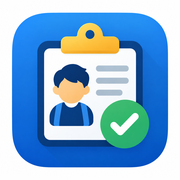
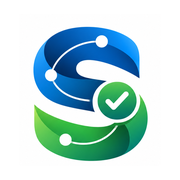
Versión 1.9

diff --git a/index.html b/index.html
@@ -6,7 +6,7 @@
   <meta name="theme-color" content="#1769e0" />
   <link rel="icon" type="image/png" sizes="32x32" href="favicon-32.png" />
   <link rel="apple-touch-icon" href="apple-touch-icon.png" />
-  <title>Registro de Ocurrencias Escolar</title>
+  <title>SAGE · Sistema de Acompañamiento y Gestión Escolar</title>
   <link rel="manifest" href="manifest.webmanifest" />
   <style>
     :root{--bg:#f4f7fb;--card:#fff;--pri:#1769e0;--pri2:#0e4ea7;--text:#172033;--muted:#6d7789;--ok:#198754;--warn:#b7791f;--danger:#c62828;--line:#e4eaf2;--shadow:0 8px 28px rgba(30,55,90,.09)}
@@ -38,7 +38,7 @@
 <body>
 <div id="authGate" class="auth-gate">
   <div class="auth-card">
-    <div class="auth-brand"><img src="icon-192.png" alt="Ícono"><div><h2>Registro Escolar</h2><div class="small muted">Cuenta y acceso seguro · Versión 1.8.4</div></div></div>
+    <div class="auth-brand"><img src="icon-192.png" alt="Ícono"><div><h2>SAGE</h2><div class="small muted">Sistema de Acompañamiento y Gestión Escolar · Versión 1.9</div></div></div>
     <div class="auth-tabs"><button id="tabLogin" class="active" type="button" onclick="showAuthTab('login')">Iniciar sesión</button><button id="tabSignup" type="button" onclick="showAuthTab('signup')">Crear cuenta</button></div>
     <div id="authLogin" class="auth-panel active">
       <label>Correo electrónico</label><input id="loginEmail" type="email" autocomplete="email" placeholder="docente@correo.com">
@@ -60,7 +60,7 @@
 </div>
 <header>
   <div class="headwrap">
-    <div class="brand"><div class="logo"><img src="icon-192.png" alt="Ícono de la app" style="width:100%;height:100%;object-fit:cover;border-radius:14px"></div><div class="headtxt"><h1>Registro de Ocurrencias Escolar</h1><small id="schoolHeader">App local · Versión 1.8.4</small></div></div>
+    <div class="brand"><div class="logo"><img src="icon-192.png" alt="Ícono de la app" style="width:100%;height:100%;object-fit:cover;border-radius:14px"></div><div class="headtxt"><h1>SAGE</h1><small id="schoolHeader">Sistema de Acompañamiento y Gestión Escolar · Versión 1.9</small></div></div>
     <div class="head-badge">V1.6 · Cuenta de usuario</div>
   </div>
 </header>
@@ -75,13 +75,27 @@
 <main>
   <section id="inicio" class="view active">
     <div class="card hero">
-      <h2>Registro rápido y ordenado</h2>
-      <p class="muted">Guarda estudiantes y ocurrencias en este dispositivo. Genera reportes imprimibles y respaldos.</p>
+      <h2>Acompañamiento y gestión escolar</h2>
+      <p class="muted">Registra, acompaña y da seguimiento a la información escolar desde una sola aplicación.</p>
       <div class="quick">
         <button class="btn primary" onclick="go('ocurrencia')"><span class="qico">➕</span>Nueva ocurrencia</button>
         <button class="btn secondary" onclick="go('salones')"><span class="qico">🏫</span>Mis salones</button>
         <button class="btn secondary" onclick="go('estudiantes')"><span class="qico">👥</span>Mis estudiantes</button>
       </div>
+    </div>
+    <div id="installCard" class="card" style="margin-top:12px;display:none">
+      <div class="split-head">
+        <div>
+          <h3 style="margin-bottom:4px">📲 Instalar aplicación</h3>
+          <div id="installHelpText" class="muted small">Instala la app para abrirla desde la pantalla de inicio.</div>
+        </div>
+        <span id="installStatePill" class="pill">Disponible</span>
+      </div>
+      <div class="actions">
+        <button id="installAppBtn" type="button" class="btn primary" onclick="installApp()">Instalar app</button>
+        <button id="installHelpBtn" type="button" class="btn secondary" onclick="showInstallHelp()">Cómo instalar</button>
+      </div>
+      <div id="installFallback" class="subtle small" style="margin-top:10px;display:none"></div>
     </div>
     <div class="grid" style="margin-top:12px">
       <div class="card stat-card"><div class="stat-label">👥 Estudiantes</div><div class="stat" id="statStudents">0</div></div>
@@ -977,7 +991,78 @@ function restoreData(e){let f=e.target.files[0];if(!f)return;let r=new FileReade
 function downloadBlob(blob,name){let a=document.createElement('a');a.href=URL.createObjectURL(blob);a.download=name;a.click();setTimeout(()=>URL.revokeObjectURL(a.href),1000)}
 function setNow(){let n=new Date();$('ocDate').value=n.toISOString().slice(0,10);$('ocTime').value=n.toTimeString().slice(0,5)}
 function esc(s){return String(s??'').replace(/[&<>"']/g,m=>({'&':'&amp;','<':'&lt;','>':'&gt;','"':'&quot;',"'":'&#039;'}[m]))} function nl(s){return esc(s).replace(/\n/g,'<br>')}
-function refreshAll(){let cfg=db.config||{};$('cfgSchool').value=cfg.school||'';$('cfgTeacher').value=cfg.teacher||'';$('cfgLevel').value=cfg.level||'Primaria';$('cfgClass').value=cfg.className||'';$('schoolHeader').textContent=(cfg.school||'App local')+' · Versión 1.8.4';if($('cloudPrepStatus'))$('cloudPrepStatus').textContent=cloudUser?'Cuenta conectada · sincronización disponible':'Estructura lista · cuenta no conectada';if($('schemaVersionLabel'))$('schemaVersionLabel').textContent='v'+(db.meta?.schemaVersion||SCHEMA_VERSION);if($('installIdLabel'))$('installIdLabel').textContent=(db.meta?.installId||'—').slice(0,8)+'…';$('statStudents').textContent=db.students.length;$('statOcc').textContent=db.occurrences.length;let today=new Date().toISOString().slice(0,10);$('statToday').textContent=db.occurrences.filter(o=>o.date===today).length;$('statFollow').textContent=db.occurrences.filter(o=>o.requiresFollow).length;let allOpts=classroomOptions(true),selectOpts=classroomOptions(false);['ocClassroom','filterClassroom','repClassroom','studentClassFilter'].forEach(id=>{let el=$(id);if(el){let old=el.value;el.innerHTML=allOpts;if(db.classrooms.some(c=>c.id===old))el.value=old}});['stClassroom','bulkClassroom'].forEach(id=>{let el=$(id);if(el){let old=el.value;el.innerHTML=id==='bulkClassroom'?'<option value="">Usar grado y sección del archivo/lista</option>'+db.classrooms.slice().sort((a,b)=>classroomLabel(a).localeCompare(classroomLabel(b))).map(c=>`<option value="${c.id}">${esc(classroomLabel(c))}</option>`).join(''):selectOpts;if(db.classrooms.some(c=>c.id===old))el.value=old}});renderClassrooms();renderStudents();renderOccurrenceStudents();renderFilterStudentOptions();renderReportStudentOptions();renderHistory();updateSyncUi()}
-setNow();refreshAll();initAuth();if('serviceWorker' in navigator)navigator.serviceWorker.register('sw.js').catch(()=>{});
+function refreshAll(){let cfg=db.config||{};$('cfgSchool').value=cfg.school||'';$('cfgTeacher').value=cfg.teacher||'';$('cfgLevel').value=cfg.level||'Primaria';$('cfgClass').value=cfg.className||'';$('schoolHeader').textContent=(cfg.school?cfg.school+' · ':'')+'SAGE · Versión 1.9';if($('cloudPrepStatus'))$('cloudPrepStatus').textContent=cloudUser?'Cuenta conectada · sincronización disponible':'Estructura lista · cuenta no conectada';if($('schemaVersionLabel'))$('schemaVersionLabel').textContent='v'+(db.meta?.schemaVersion||SCHEMA_VERSION);if($('installIdLabel'))$('installIdLabel').textContent=(db.meta?.installId||'—').slice(0,8)+'…';$('statStudents').textContent=db.students.length;$('statOcc').textContent=db.occurrences.length;let today=new Date().toISOString().slice(0,10);$('statToday').textContent=db.occurrences.filter(o=>o.date===today).length;$('statFollow').textContent=db.occurrences.filter(o=>o.requiresFollow).length;let allOpts=classroomOptions(true),selectOpts=classroomOptions(false);['ocClassroom','filterClassroom','repClassroom','studentClassFilter'].forEach(id=>{let el=$(id);if(el){let old=el.value;el.innerHTML=allOpts;if(db.classrooms.some(c=>c.id===old))el.value=old}});['stClassroom','bulkClassroom'].forEach(id=>{let el=$(id);if(el){let old=el.value;el.innerHTML=id==='bulkClassroom'?'<option value="">Usar grado y sección del archivo/lista</option>'+db.classrooms.slice().sort((a,b)=>classroomLabel(a).localeCompare(classroomLabel(b))).map(c=>`<option value="${c.id}">${esc(classroomLabel(c))}</option>`).join(''):selectOpts;if(db.classrooms.some(c=>c.id===old))el.value=old}});renderClassrooms();renderStudents();renderOccurrenceStudents();renderFilterStudentOptions();renderReportStudentOptions();renderHistory();updateSyncUi()}
+
+let deferredInstallPrompt=null;
+function isStandalone(){return window.matchMedia('(display-mode: standalone)').matches || window.navigator.standalone===true;}
+function isIOS(){return /iphone|ipad|ipod/i.test(navigator.userAgent);}
+function isAndroid(){return /android/i.test(navigator.userAgent);}
+function updateInstallUi(message){
+  const card=$('installCard'), btn=$('installAppBtn'), pill=$('installStatePill'), help=$('installHelpText');
+  if(!card)return;
+  if(isStandalone()){
+    card.style.display='none';
+    return;
+  }
+  card.style.display='block';
+  if(message)help.textContent=message;
+  if(deferredInstallPrompt){
+    btn.style.display='inline-block';
+    pill.textContent='Lista para instalar';
+  }else{
+    btn.style.display='inline-block';
+    pill.textContent='Instalación';
+  }
+}
+window.addEventListener('beforeinstallprompt',e=>{
+  e.preventDefault();
+  deferredInstallPrompt=e;
+  updateInstallUi('La app está lista para instalarse en este dispositivo.');
+});
+window.addEventListener('appinstalled',()=>{
+  deferredInstallPrompt=null;
+  toast('Aplicación instalada correctamente');
+  const card=$('installCard'); if(card)card.style.display='none';
+});
+async function installApp(){
+  if(isStandalone()){toast('La app ya está instalada');return;}
+  if(deferredInstallPrompt){
+    try{
+      deferredInstallPrompt.prompt();
+      const choice=await deferredInstallPrompt.userChoice;
+      if(choice.outcome==='accepted'){
+        $('installHelpText').textContent='Android está completando la instalación. Si el ícono no aparece, revisa el cajón de aplicaciones.';
+        $('installStatePill').textContent='Instalando…';
+      }else{
+        $('installHelpText').textContent='Instalación cancelada. Puedes intentarlo nuevamente.';
+      }
+    }catch(e){showInstallHelp();}
+    deferredInstallPrompt=null;
+    return;
+  }
+  showInstallHelp();
+}
+function showInstallHelp(){
+  const box=$('installFallback'); if(!box)return;
+  box.style.display='block';
+  if(isIOS()){
+    box.innerHTML='<b>iPhone/iPad:</b> abre esta página en Safari → botón Compartir → <b>Añadir a pantalla de inicio</b>.';
+  }else if(isAndroid()){
+    box.innerHTML='<b>Android:</b> abre esta página en Chrome → menú ⋮ → <b>Agregar a pantalla de inicio</b>. Si aparece “Instalar aplicación” y no termina, usa esta alternativa. También revisa el cajón de aplicaciones por si Android la instaló sin colocar el ícono en la pantalla principal.';
+  }else{
+    box.innerHTML='<b>Computadora:</b> en Chrome o Edge busca el ícono de instalación en la barra de direcciones o usa el menú del navegador → <b>Instalar aplicación</b>.';
+  }
+}
+function initInstallExperience(){
+  if(isStandalone())return;
+  updateInstallUi('Puedes instalar la app o agregarla a tu pantalla de inicio.');
+  setTimeout(()=>{
+    if(!deferredInstallPrompt && !isStandalone()){
+      $('installHelpText').textContent='Si “Instalar” no completa el proceso, usa “Cómo instalar” y agrega la app a la pantalla de inicio.';
+    }
+  },1800);
+}
+
+setNow();refreshAll();initAuth();initInstallExperience();if('serviceWorker' in navigator){navigator.serviceWorker.register('sw.js').then(reg=>{reg.update().catch(()=>{});}).catch(()=>{});}
 </script>
 </body></html>

diff --git a/sw.js b/sw.js
@@ -1,5 +1,15 @@
-const CACHE='registro-ocurrencias-v1-8-4';
-const ASSETS=['./','./index.html','./manifest.webmanifest','./icon-192.png','./icon-512.png','./apple-touch-icon.png','./favicon-32.png'];
-self.addEventListener('install',e=>e.waitUntil(caches.open(CACHE).then(c=>c.addAll(ASSETS)).then(()=>self.skipWaiting())));
-self.addEventListener('activate',e=>e.waitUntil(caches.keys().then(keys=>Promise.all(keys.filter(k=>k!==CACHE).map(k=>caches.delete(k)))).then(()=>self.clients.claim())));
-self.addEventListener('fetch',e=>{if(e.request.method!=='GET')return;const isPage=e.request.mode==='navigate'||e.request.url.endsWith('/index.html');if(isPage){e.respondWith(fetch(e.request).then(resp=>{let clone=resp.clone();caches.open(CACHE).then(c=>c.put('./index.html',clone));return resp}).catch(()=>caches.match('./index.html')));return;}e.respondWith(caches.match(e.request).then(r=>r||fetch(e.request).then(resp=>{let clone=resp.clone();caches.open(CACHE).then(c=>c.put(e.request,clone));return resp})));});
+const CACHE='sage-v1-9';
+const CORE=['./','./index.html','./manifest.webmanifest','./icon-192.png','./icon-512.png','./apple-touch-icon.png','./favicon-32.png','./logo-sage.png'];
+self.addEventListener('install',event=>{event.waitUntil(caches.open(CACHE).then(c=>c.addAll(CORE)).then(()=>self.skipWaiting()));});
+self.addEventListener('activate',event=>{event.waitUntil(caches.keys().then(keys=>Promise.all(keys.filter(k=>k!==CACHE).map(k=>caches.delete(k)))).then(()=>self.clients.claim()));});
+self.addEventListener('fetch',event=>{
+  if(event.request.method!=='GET') return;
+  const url=new URL(event.request.url);
+  const isPage=event.request.mode==='navigate' || url.pathname.endsWith('/index.html') || url.pathname.endsWith('/registro-ocurrencias/');
+  if(isPage){
+    event.respondWith(fetch(event.request,{cache:'no-store'}).then(resp=>{const clone=resp.clone();caches.open(CACHE).then(c=>c.put('./index.html',clone));return resp;}).catch(()=>caches.match('./index.html')));
+    return;
+  }
+  event.respondWith(caches.match(event.request).then(cached=>cached||fetch(event.request).then(resp=>{if(resp && resp.ok){const clone=resp.clone();caches.open(CACHE).then(c=>c.put(event.request,clone));}return resp;})));
+});
+self.addEventListener('message',event=>{if(event.data==='SKIP_WAITING')self.skipWaiting();});
